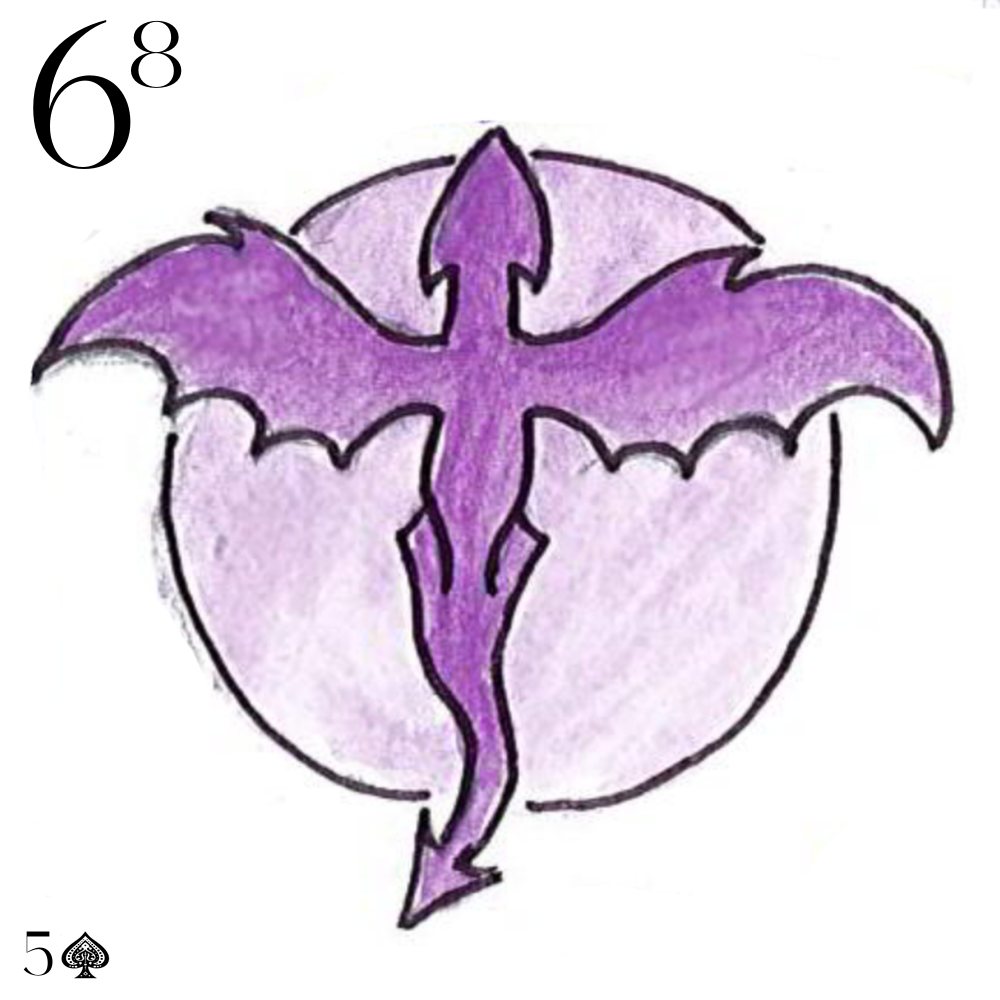
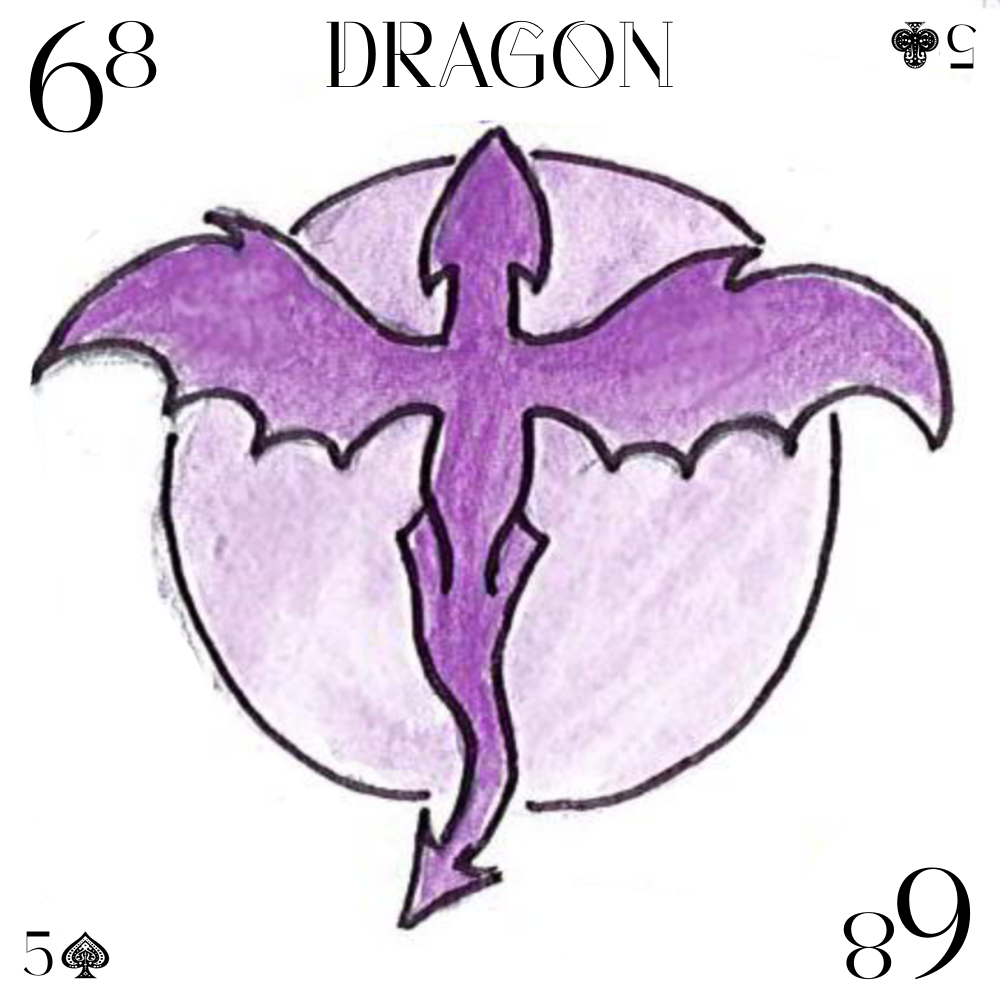
carte OK, comment les générer toutes ?

diff --git a/png_to_card.py b/png_to_card.py
@@ -3,6 +3,30 @@ from PIL import ImageFont
 from PIL import ImageDraw
 import numpy as np
 
+def add_type(draw, nb_str,font):
+	if nb_str[0] == '6':
+		print("dragon")
+		txt = "DRAGON"
+		_, _, w, h = draw.textbbox((0, 0), txt, font=font)
+	draw.text(((1000-w)/2, 20),txt,(0,0,0),font=font)
+
+def add_classic_symbol( classic_nb,font,img,classic_pos,symbol_size,color = "pic"):
+	if color == "pic":
+		symbol_img = Image.open("./symbol/pic.png")
+	elif color == "carreau":
+		symbol_img = Image.open("./symbol/carreau.png")
+	elif color == "coeur":
+		symbol_img = Image.open("./symbol/coeur.png")
+	elif color == "trefle":
+		symbol_img = Image.open("./symbol/trefle.png")
+	symbol_img = symbol_img.resize((symbol_size, symbol_size), Image.LANCZOS)
+	symbol_img = symbol_img.convert("RGBA")
+	img = img.convert("RGBA")
+	img.alpha_composite(symbol_img, dest=(60, classic_pos))
+	draw = ImageDraw.Draw(img)	
+	draw.text((20 , classic_pos),str(classic_nb),(0,0,0),font=font) # numéro carte classique
+
+	return img
 
 def create_card(png_file,font_file,number): # Créer un classe carte
 
@@ -28,15 +52,17 @@ def create_card(png_file,font_file,number): # Créer un classe carte
 	draw = ImageDraw.Draw(img)	# Ajout du nombre
 	draw.text((20, 20),nb_str[0],(0,0,0),font=myBigFont)
 	draw.text((20 + BigFontSize/2 +5 , 20),nb_str[1],(0,0,0),font=myFont)
-	draw.text((20 , classic_pos),str(classic_nb),(0,0,0),font=classicFont) # numéro carte classique
 
-	symbol_img = Image.open("./symbol/pic.png")
-	symbol_img = symbol_img.resize((symbol_size, symbol_size), Image.LANCZOS)
+	add_type(draw, nb_str,myFont)
+	img = add_classic_symbol(classic_nb=classic_nb,img=img,classic_pos=classic_pos,color = "pic",font = classicFont,symbol_size=symbol_size)
 
-	symbol_img = symbol_img.convert("RGBA")
-	img = img.convert("RGBA")
+	img = img.rotate(180)
+	draw = ImageDraw.Draw(img)	
+	draw.text((20, 20),nb_str[0],(0,0,0),font=myBigFont)
+	draw.text((20 + BigFontSize/2 +5 , 20),nb_str[1],(0,0,0),font=myFont)
+	img = add_classic_symbol(classic_nb=classic_nb,img=img,classic_pos=classic_pos,color = "trefle",font = classicFont,symbol_size=symbol_size)
 
-	img.alpha_composite(symbol_img, dest=(60, classic_pos))
+	img = img.rotate(180)
 
 	img.save('carte_test2.png')
 	print("Card Created")
